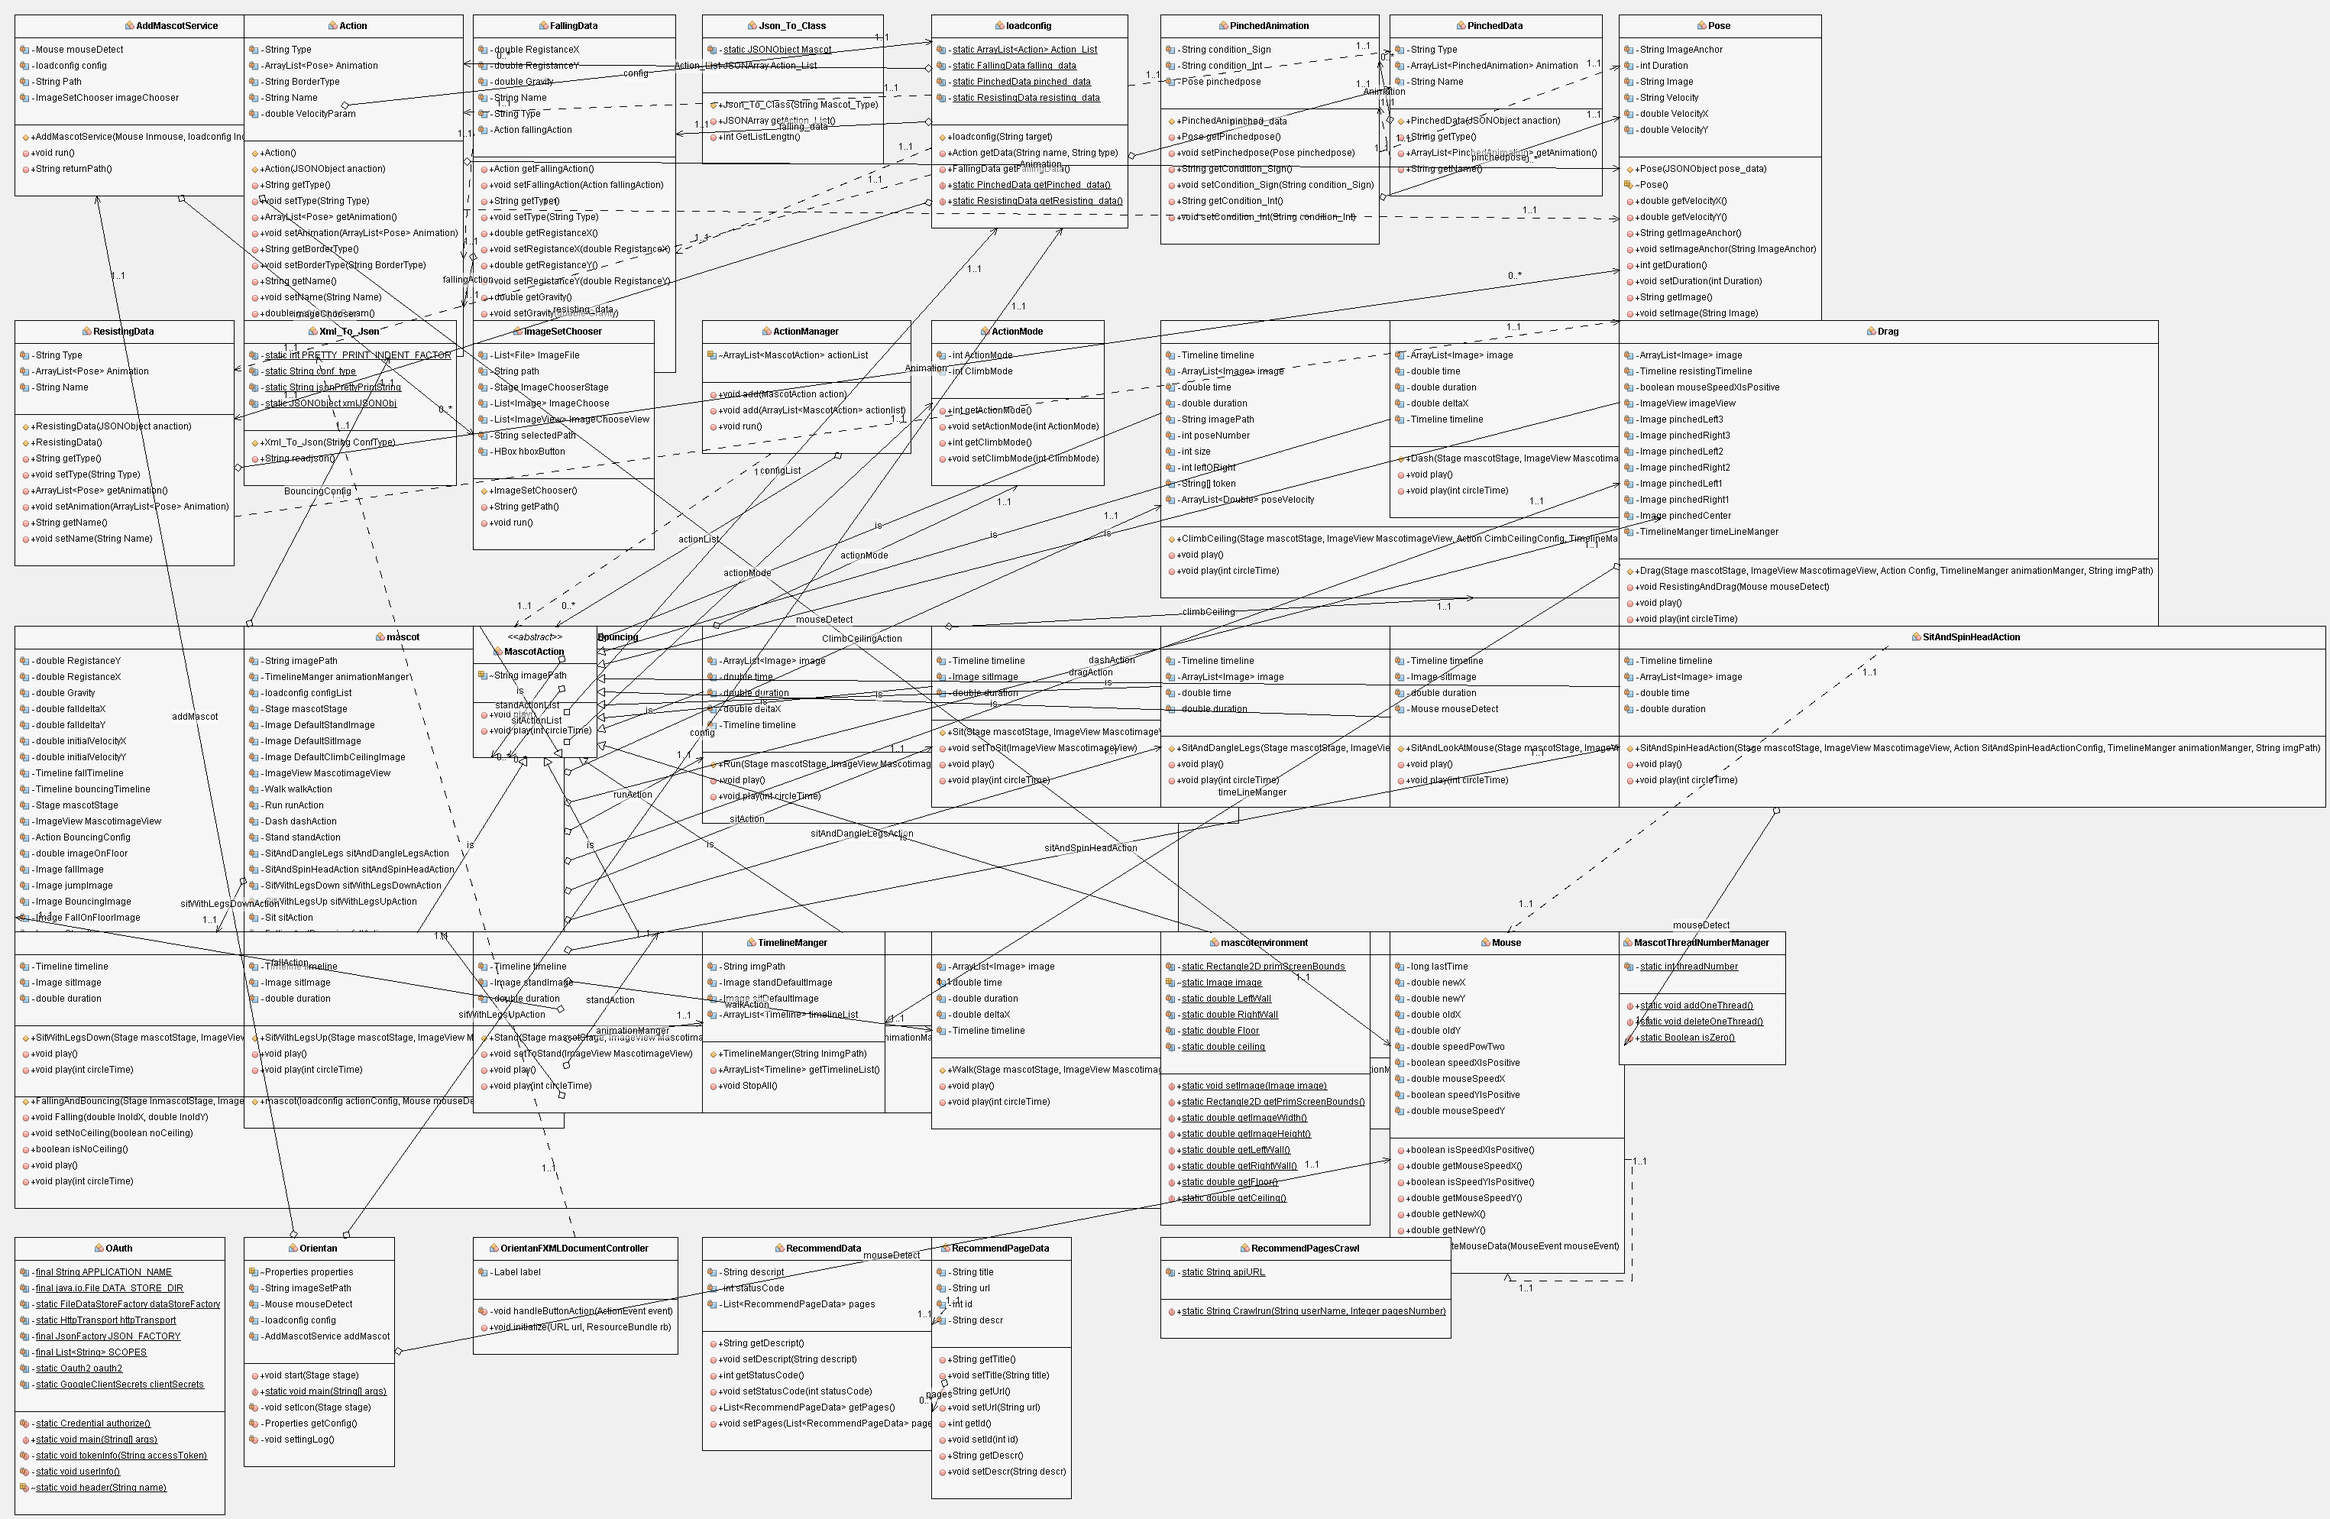
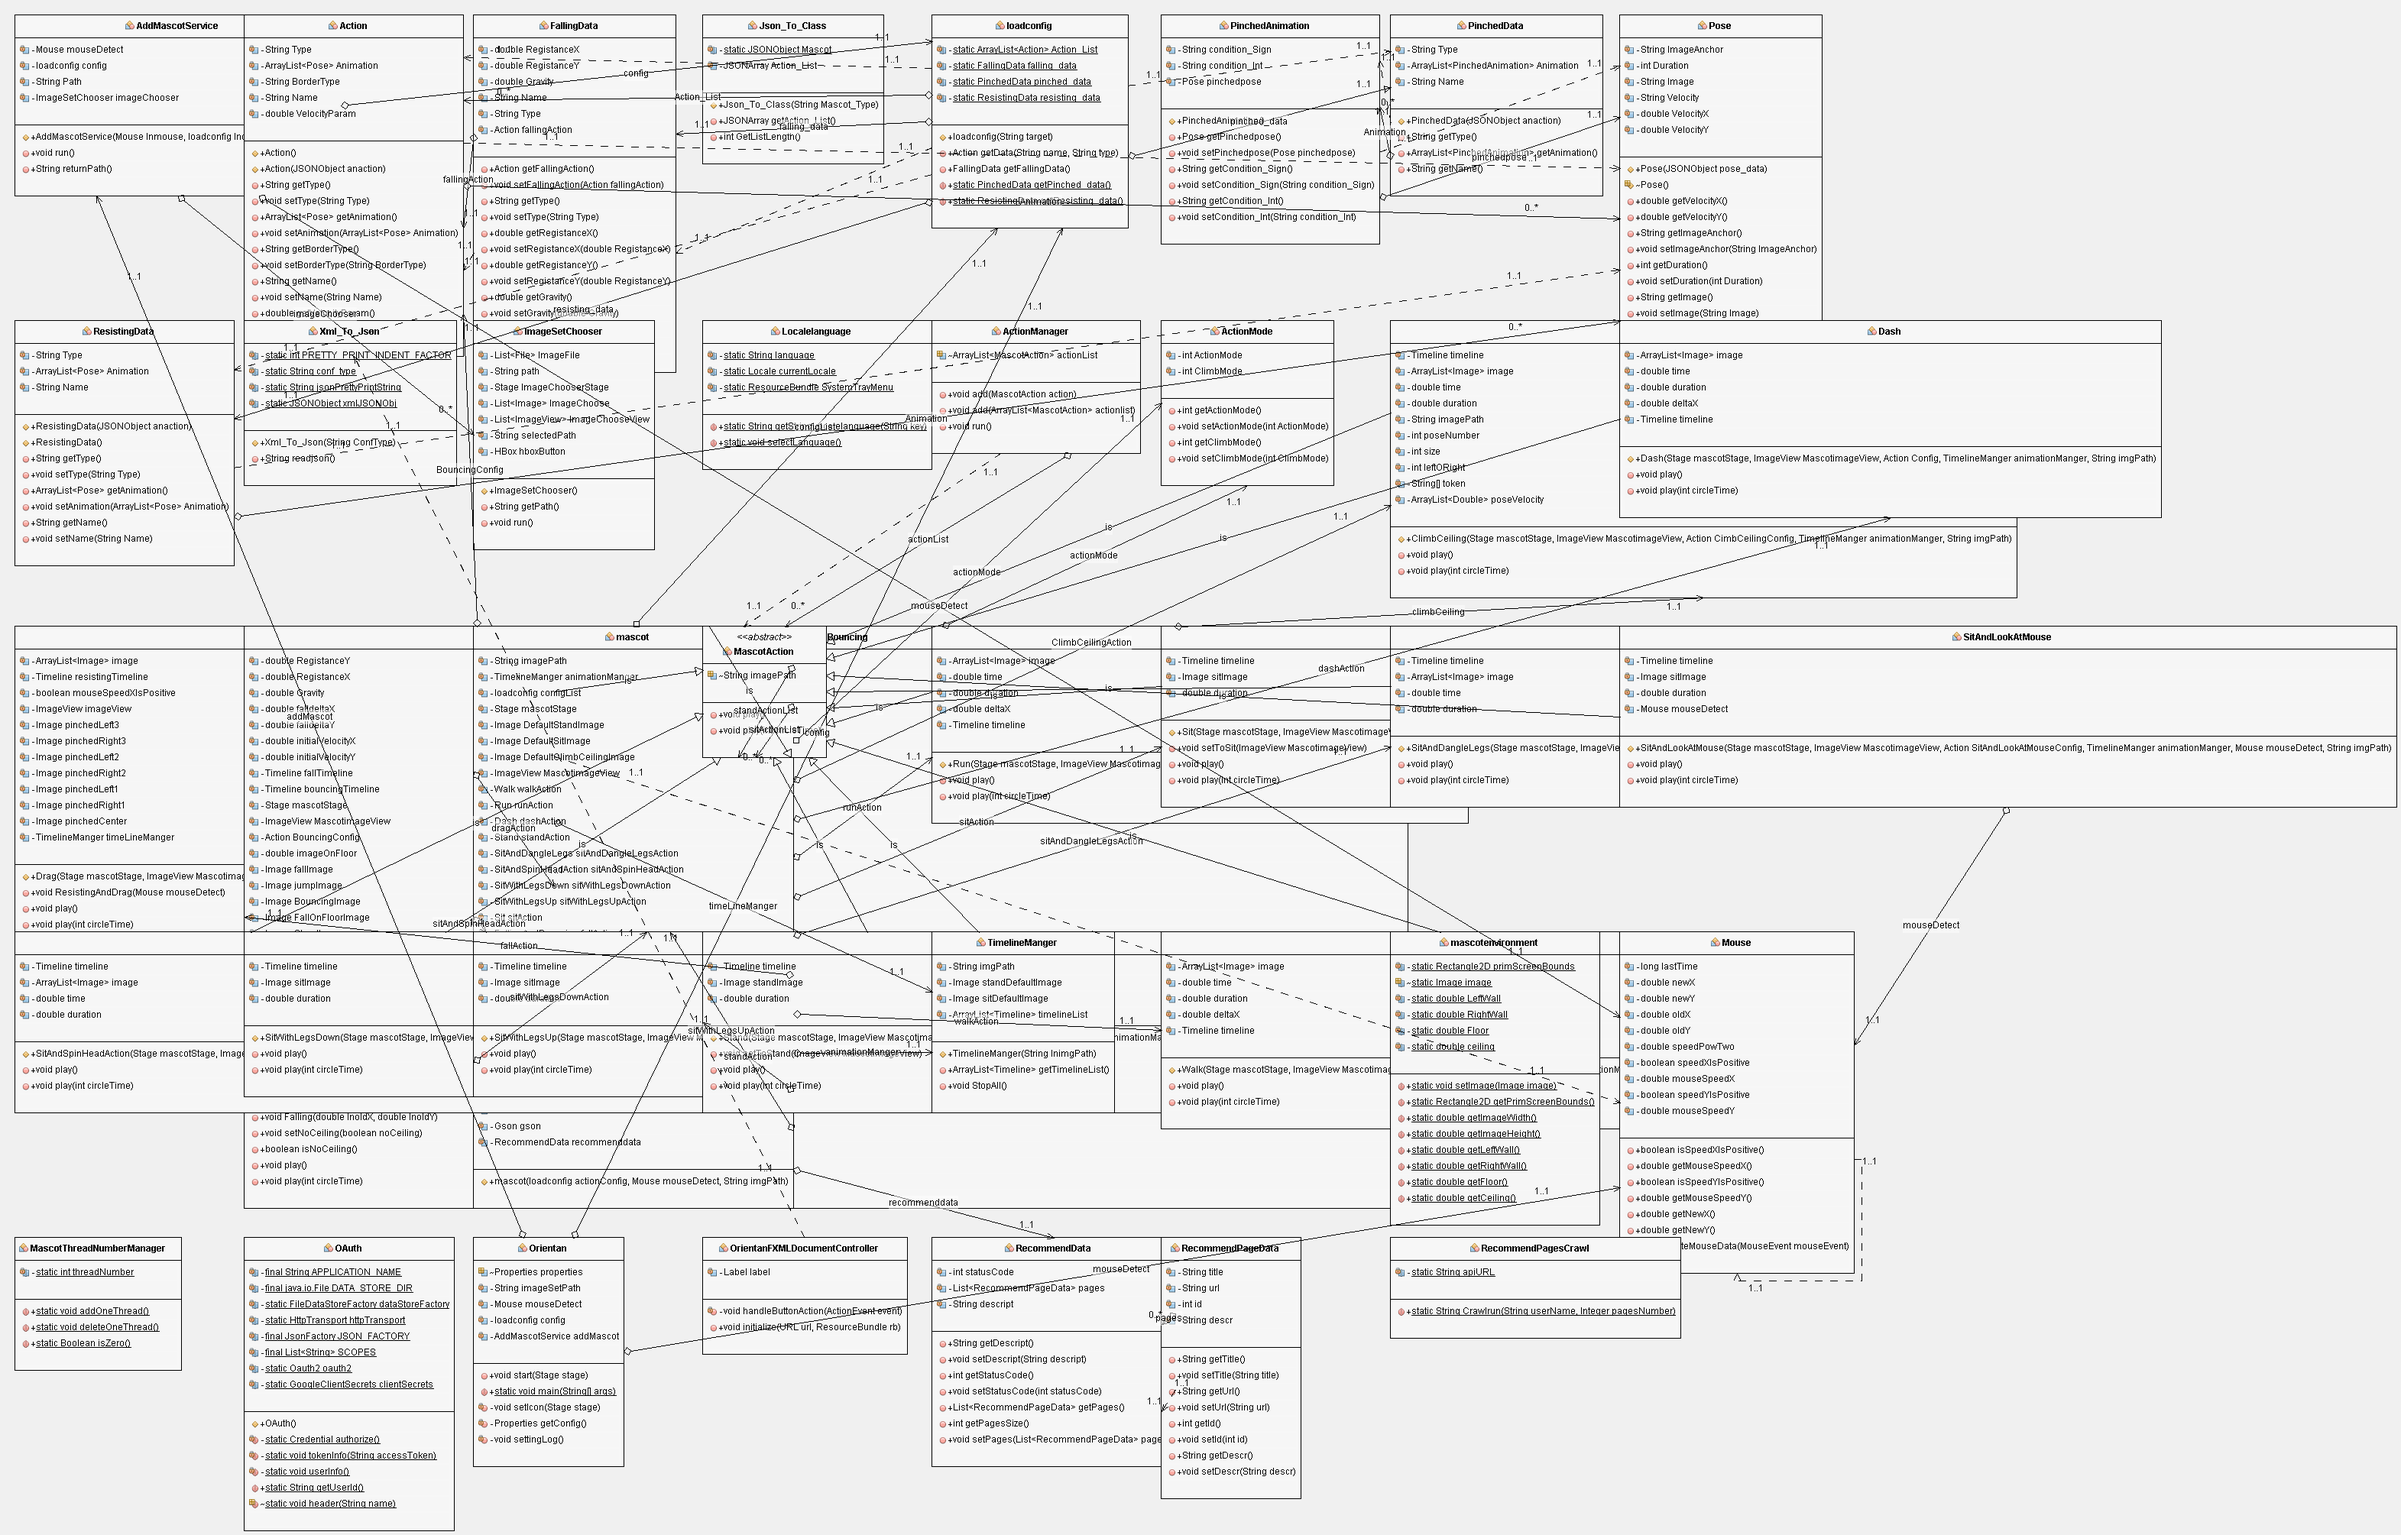
cancel  language chooser

diff --git a/Orientan/src/orientan/Localelanguage.java b/Orientan/src/orientan/Localelanguage.java
@@ -23,13 +23,16 @@ import javafx.scene.image.ImageView;
 public final class Localelanguage {
 
     private static String language = null;
-
+    private static Locale currentLocale = Locale.getDefault();
+    private static ResourceBundle SystemTrayMenu= ResourceBundle.getBundle("messages", currentLocale);
     //private static String key = null;
     public static String getStringLocalelanguage(String key) {
-        return ResourceBundle.getBundle(language, Locale.getDefault()).getString(key);
+        //return ResourceBundle.getBundle(language, Locale.getDefault()).getString(key);
+        return SystemTrayMenu.getString(key);
     }
 
     public static void selectLanguage() {
+        /*
         //修復javafx thread的問題
         Platform.setImplicitExit(false);
         //
@@ -47,10 +50,8 @@ public final class Localelanguage {
             }
             //檔名篩選
             /*
-            if(!f.getName().substring(0, startIndex-1).equals("default")||!f.getName().substring(0, startIndex-1).equals("Default"))
-            {
-                continue;
-            }*/
+            //if(!f.getName().substring(0, startIndex-1).equals("default")||!f.getName().substring(0, startIndex-1).equals("Default"))
+
             //取檔名
             fname.add(f.getName().substring(0, startIndex - 1));
             //System.out.println(f);
@@ -73,6 +74,6 @@ public final class Localelanguage {
             System.out.println("您取消了選擇，期待您下次使用");
             System.exit(0);
         }
-    
+    */
     }
 }
